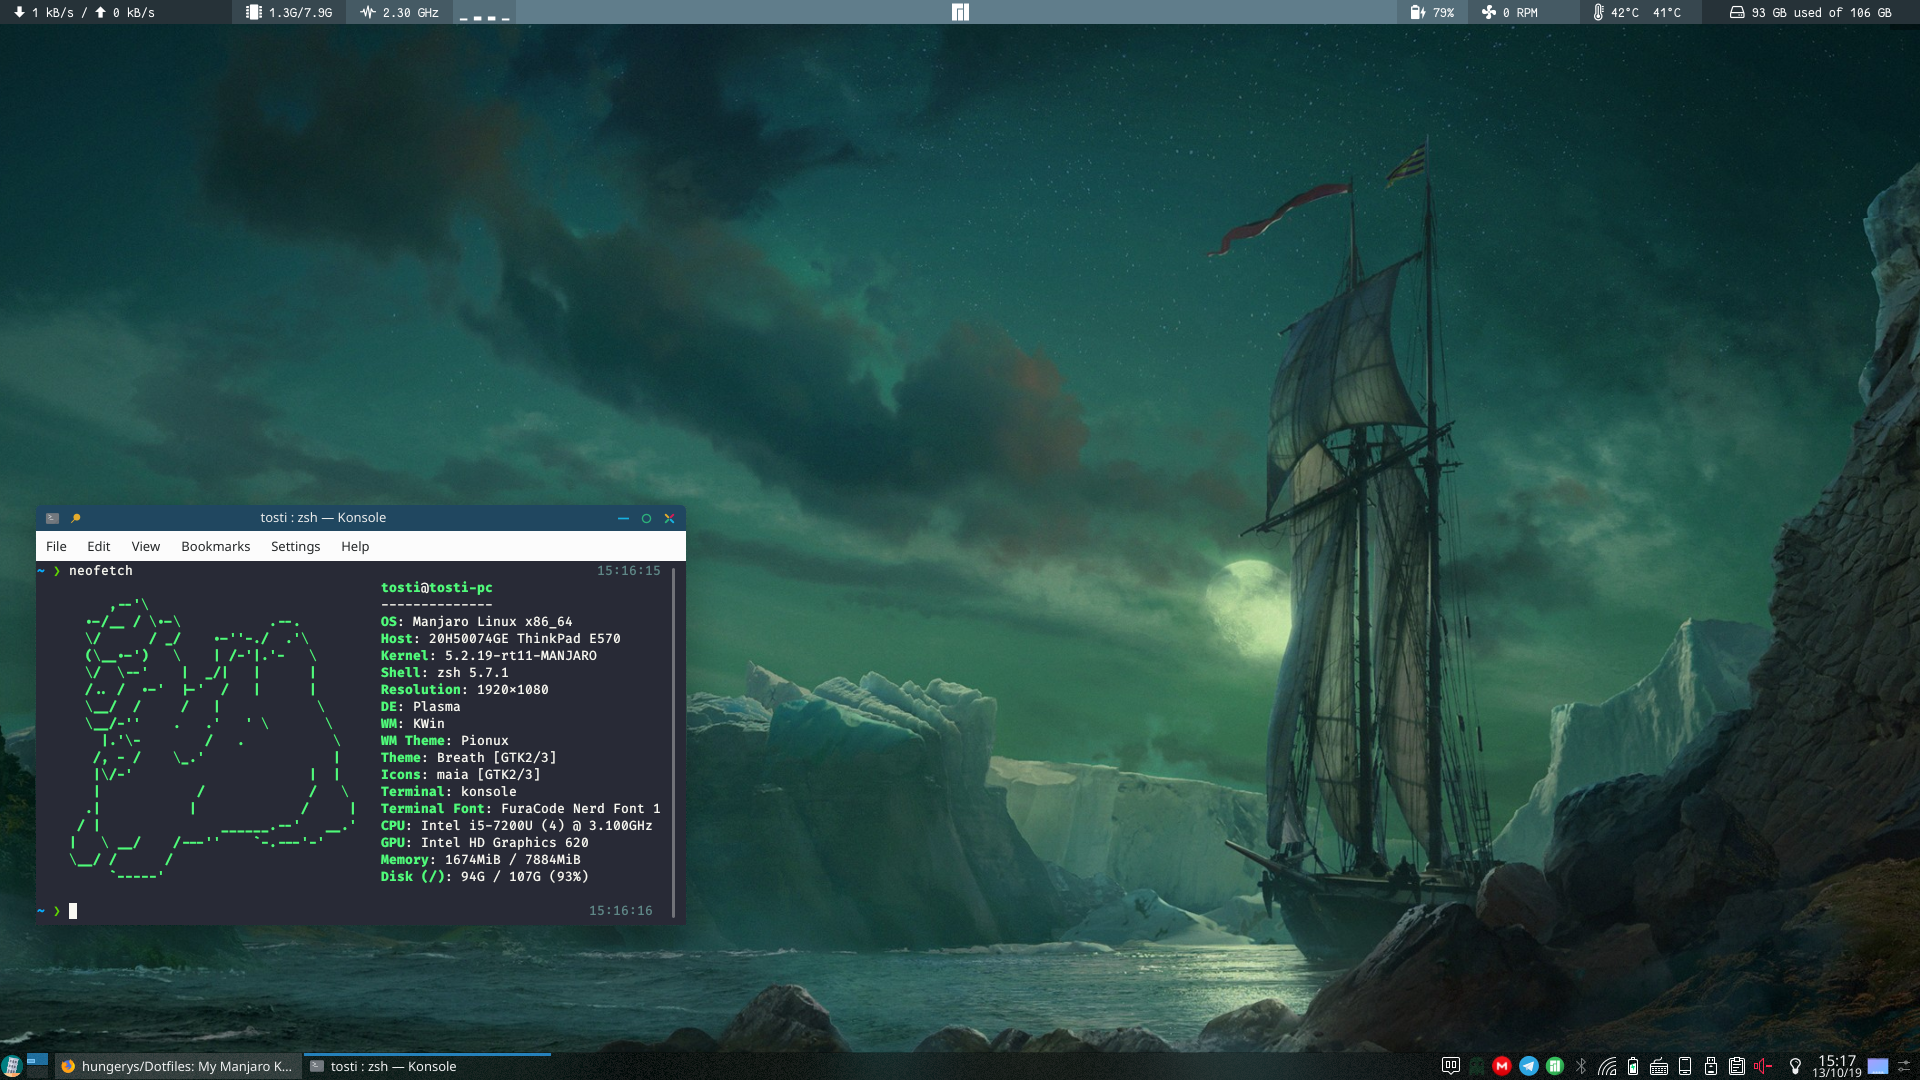
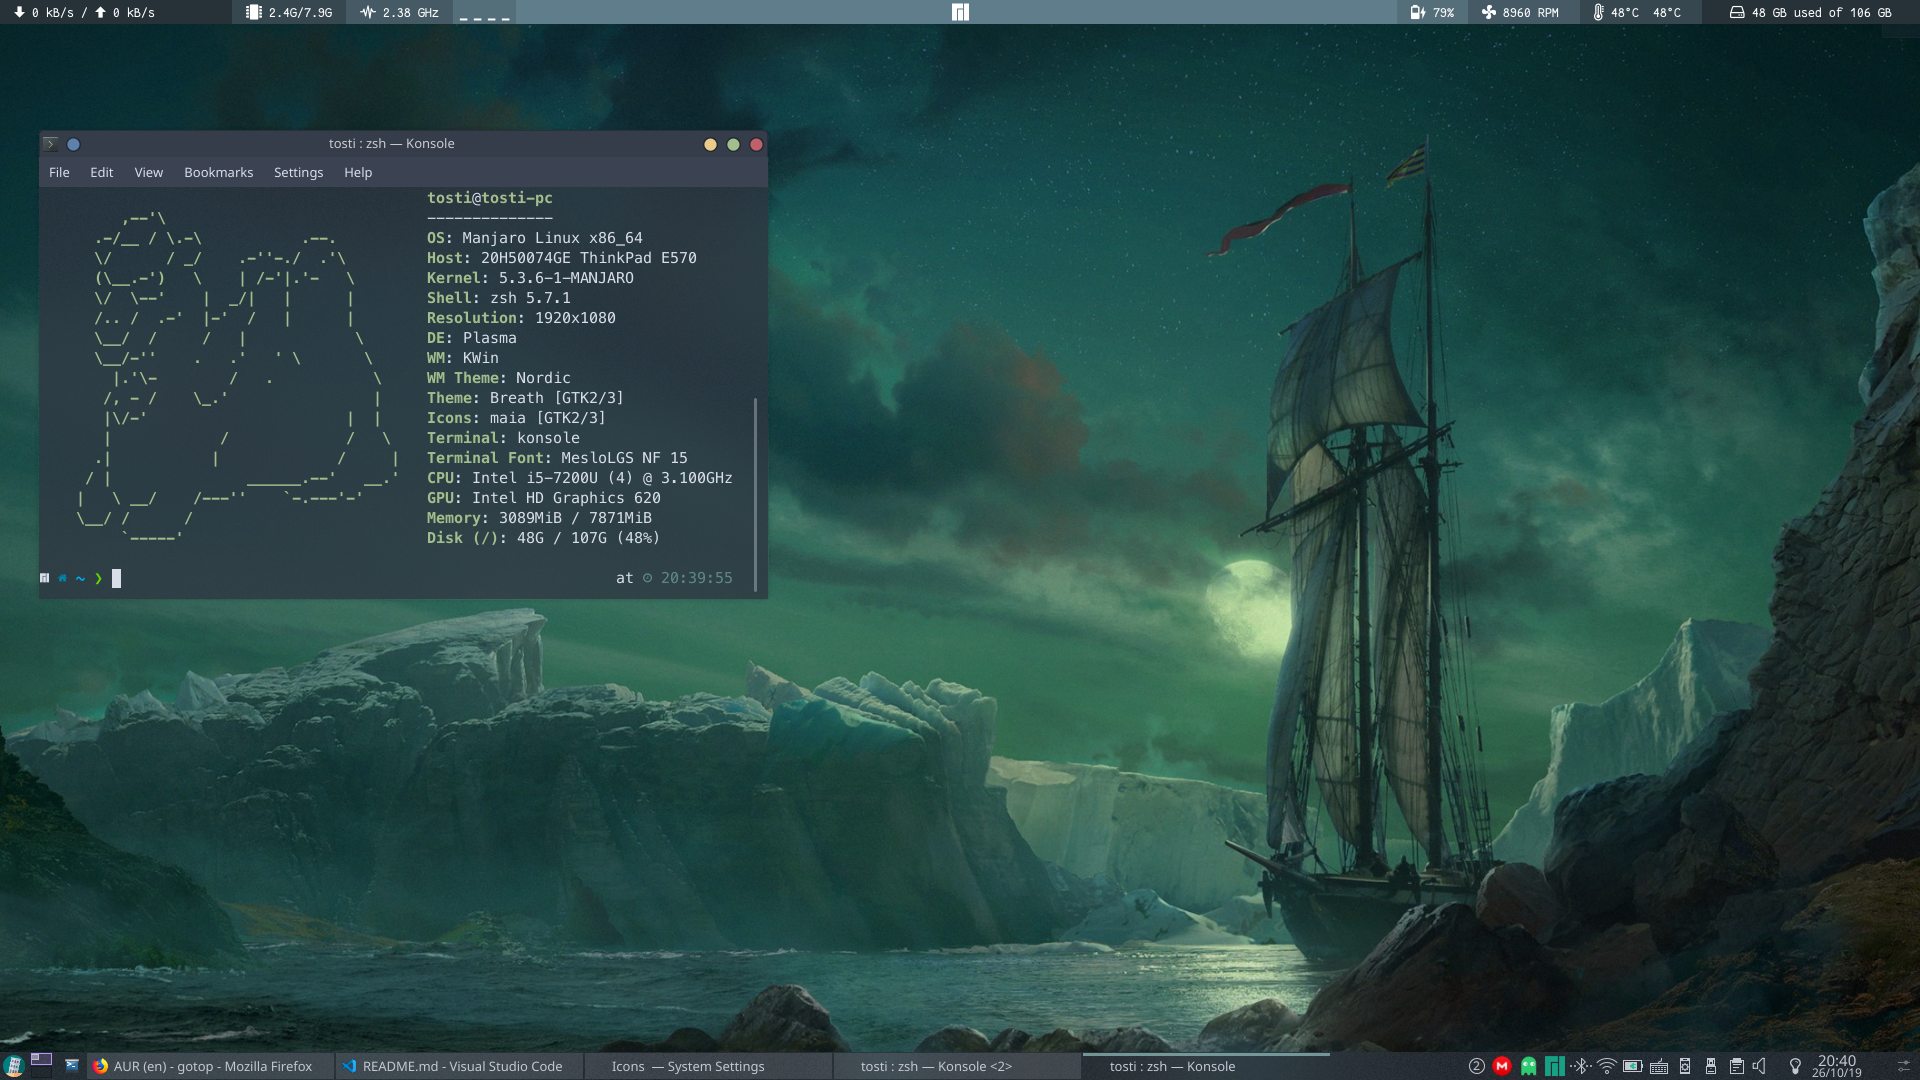
Edit theme

diff --git a/README.md b/README.md
@@ -27,16 +27,16 @@ and then modified:
 
 #### System Settings -> Appearance
 
-* Look and Feel: [Koompi](https://store.kde.org/p/1321177/)
-* Workspace Theme -> Plasma Theme + Splash Screen: [Koompi](https://store.kde.org/p/1309800)
-* Colours + Application Style -> Window Decorations: [Koompi](https://store.kde.org/p/1309802)
-* Icons: [Tela](https://store.kde.org/p/1279924)
+* Look and Feel: [Nordic KDE](https://store.kde.org/p/1327093)
+* Workspace Theme -> Plasma Theme + Splash Screen: [Nordic KDE](https://store.kde.org/p/1327093)
+* Colours + Application Style -> Window Decorations: [Nordic KDE](https://store.kde.org/p/1327093)
+* Icons: [Nordic](https://www.gnome-look.org/dl?file_id=1567965545&file_type=application/x-xz&file_name=Nordic-Folders.tar.xz&file_size=24000&project_id=1267246)
 * Wallpaper: [Sailing Ship](https://wallhaven.cc/w/45ope1)
 
 #### Terminal
 
-* Theme: [Dracula](https://draculatheme.com/terminal)
-* Font: [FuraCode Nerd](https://github.com/ryanoasis/nerd-fonts/tree/master/patched-fonts/FiraCode)
+* Theme: [Nordic konsole](https://store.kde.org/p/1329371)
+* Font: [MesloLGS](https://github.com/romkatv/powerlevel10k#recommended-meslo-nerd-font-patched-for-powerlevel10k)
 * Shell: [Zsh](http://zsh.sourceforge.net/) + [Oh My Zsh](https://github.com/robbyrussell/oh-my-zsh)
 * Shell theme: [Powerlevel10k](https://github.com/romkatv/powerlevel10k)
 ---
